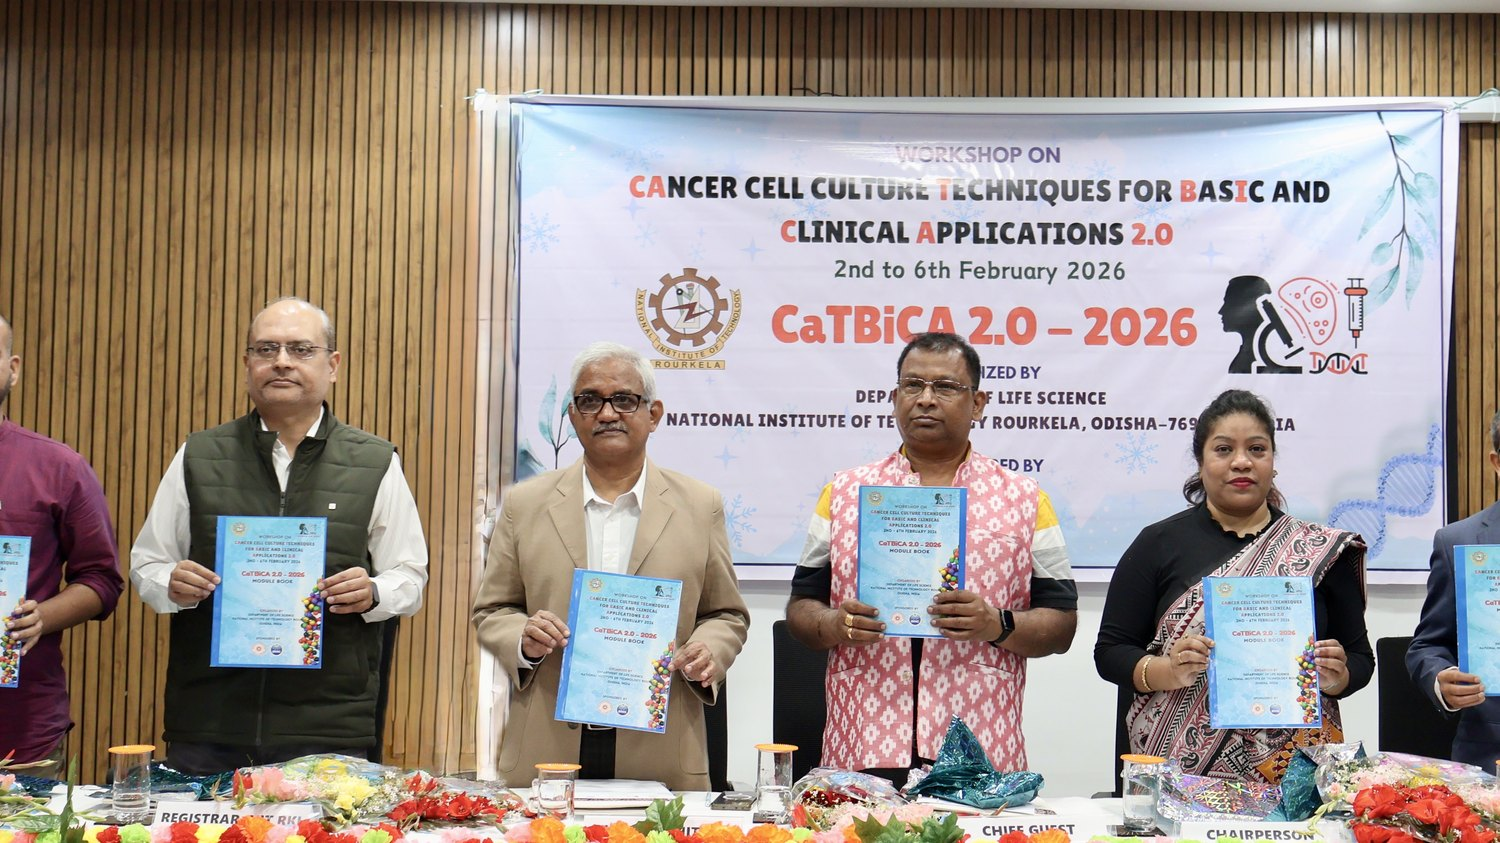
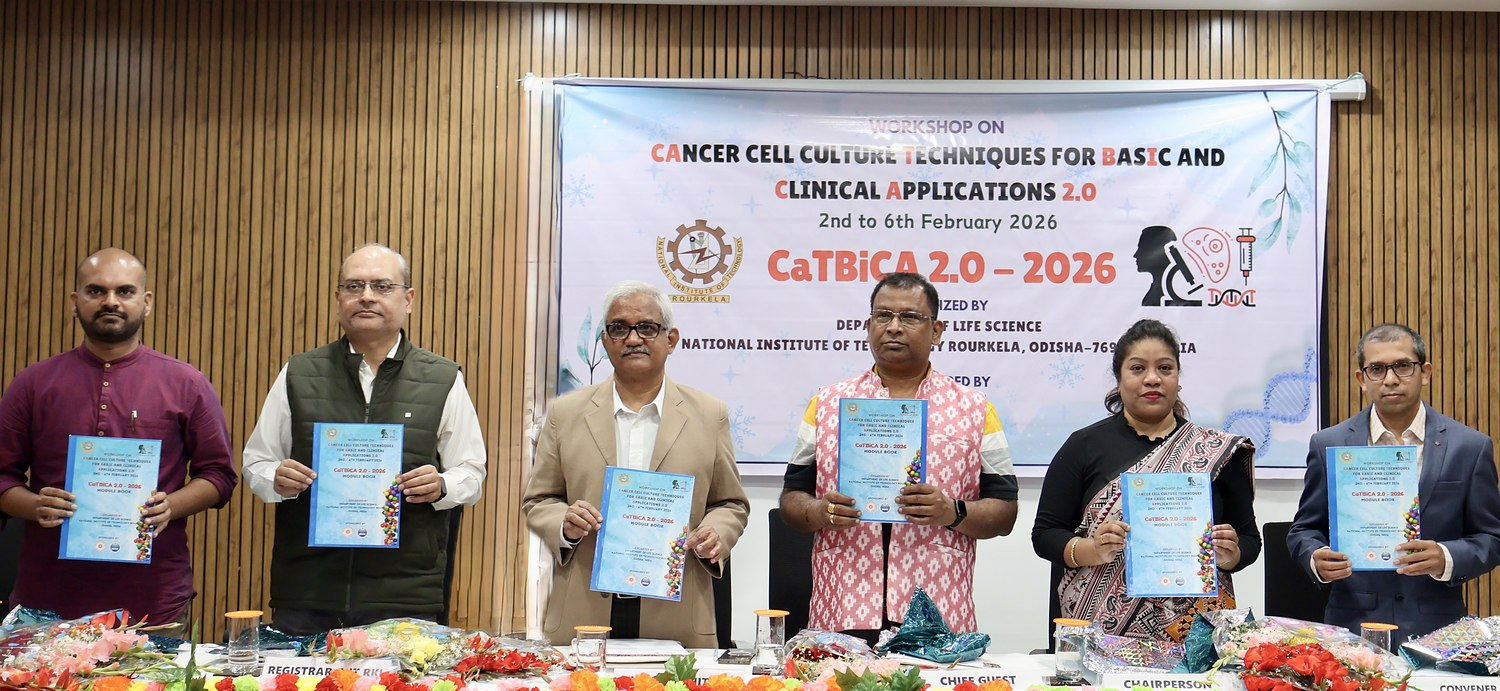
Fix CaTBiCA photo cropping

diff --git a/assets/css/style.css b/assets/css/style.css
@@ -264,7 +264,7 @@ p  { margin: 0 0 1.1em; }
 .shop-photos { display: grid; grid-template-columns: 1fr 1fr; gap: 22px; margin-top: 26px; }
 @media (max-width: 760px) { .shop-photos { grid-template-columns: 1fr; } }
 .shop-photos figure { margin: 0; }
-.shop-photos img { width: 100%; aspect-ratio: 16/9; object-fit: cover;
+.shop-photos img { width: 100%; aspect-ratio: 1500/691; object-fit: cover;
   border-radius: var(--radius); box-shadow: var(--shadow-sm); }
 .shop-photos figcaption { margin-top: 10px; font-size: .86rem; color: var(--ink-500); }
 
